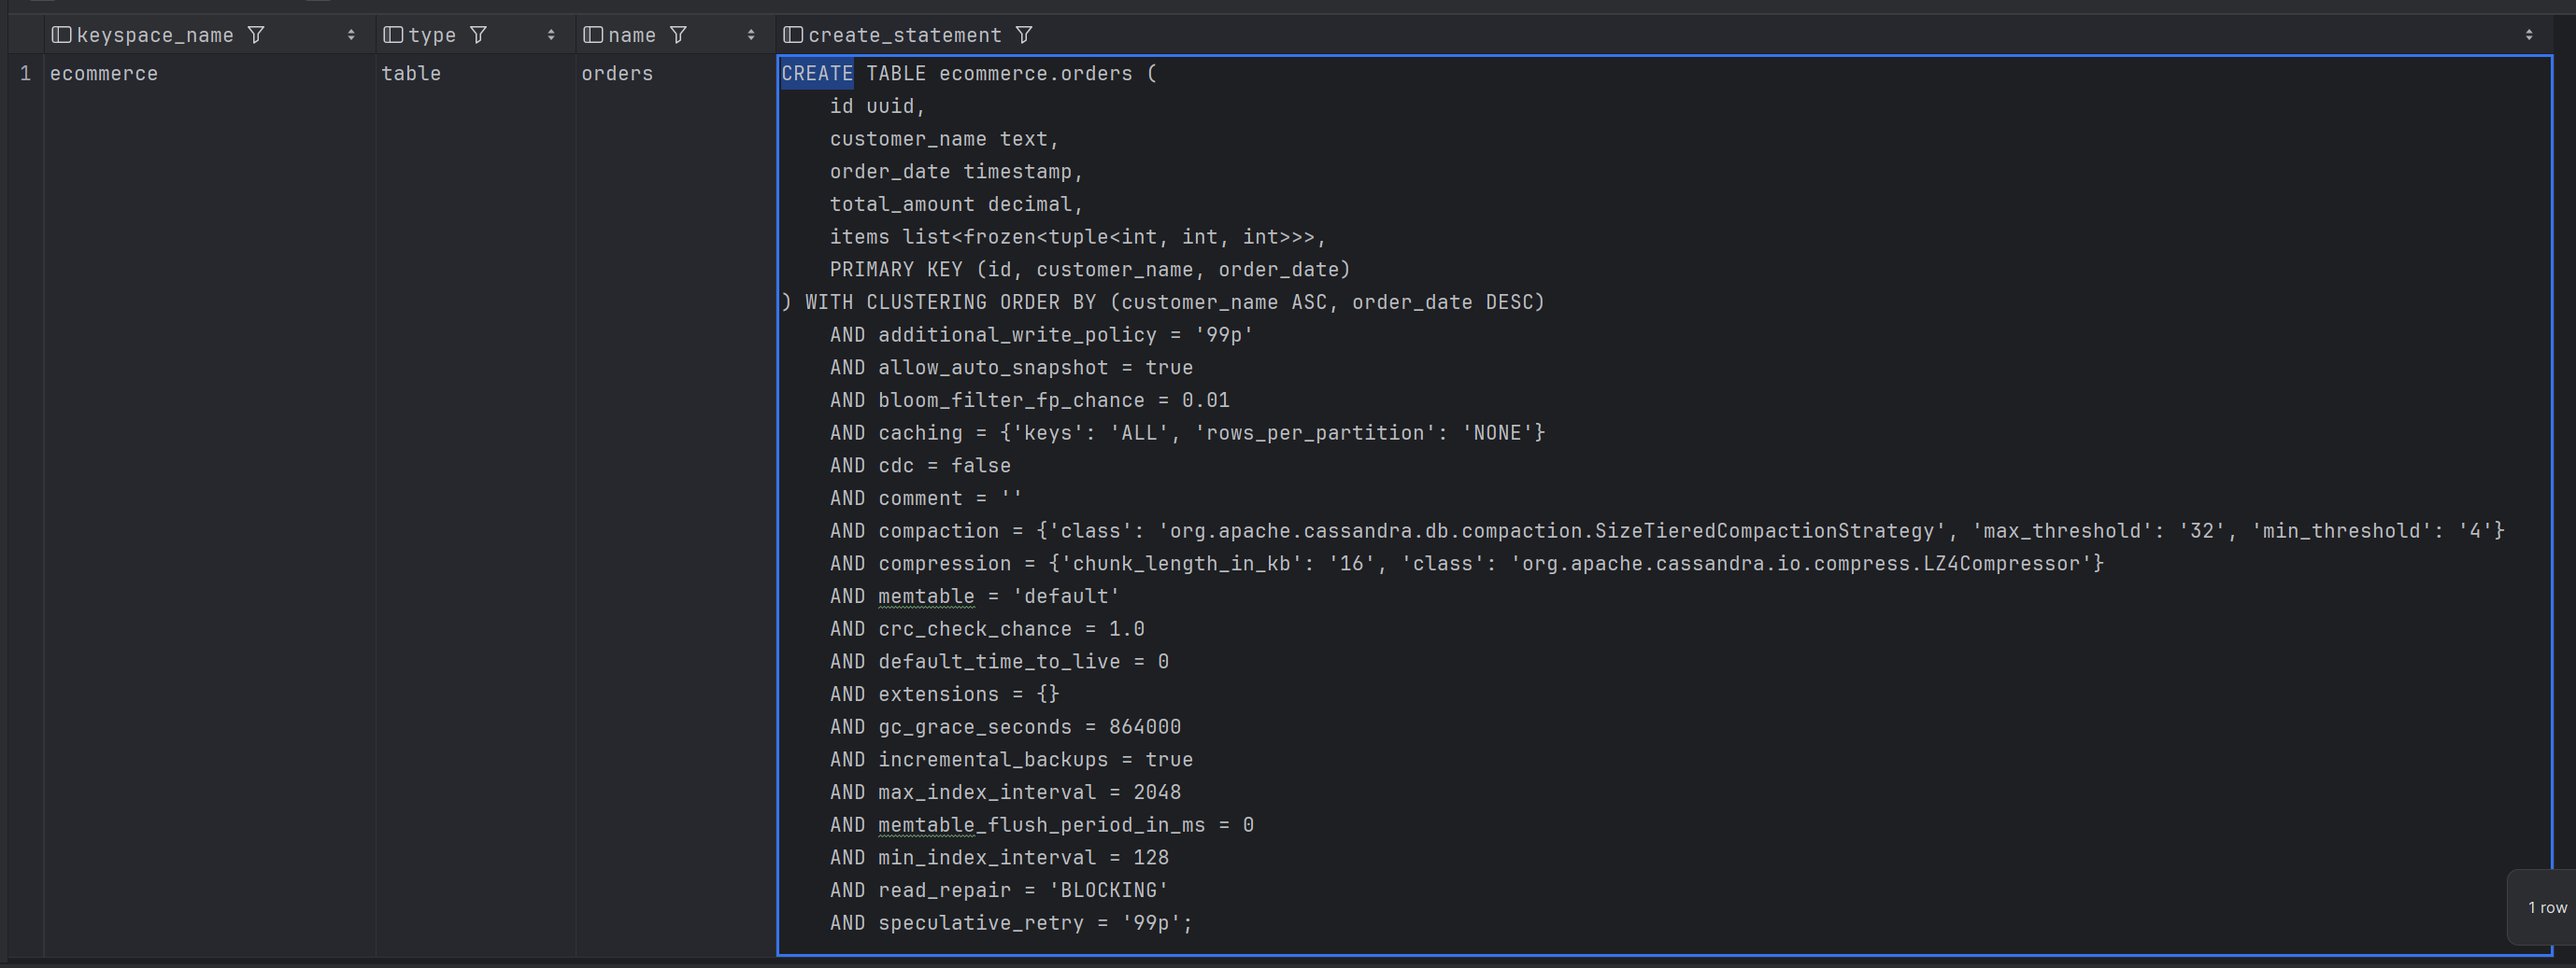
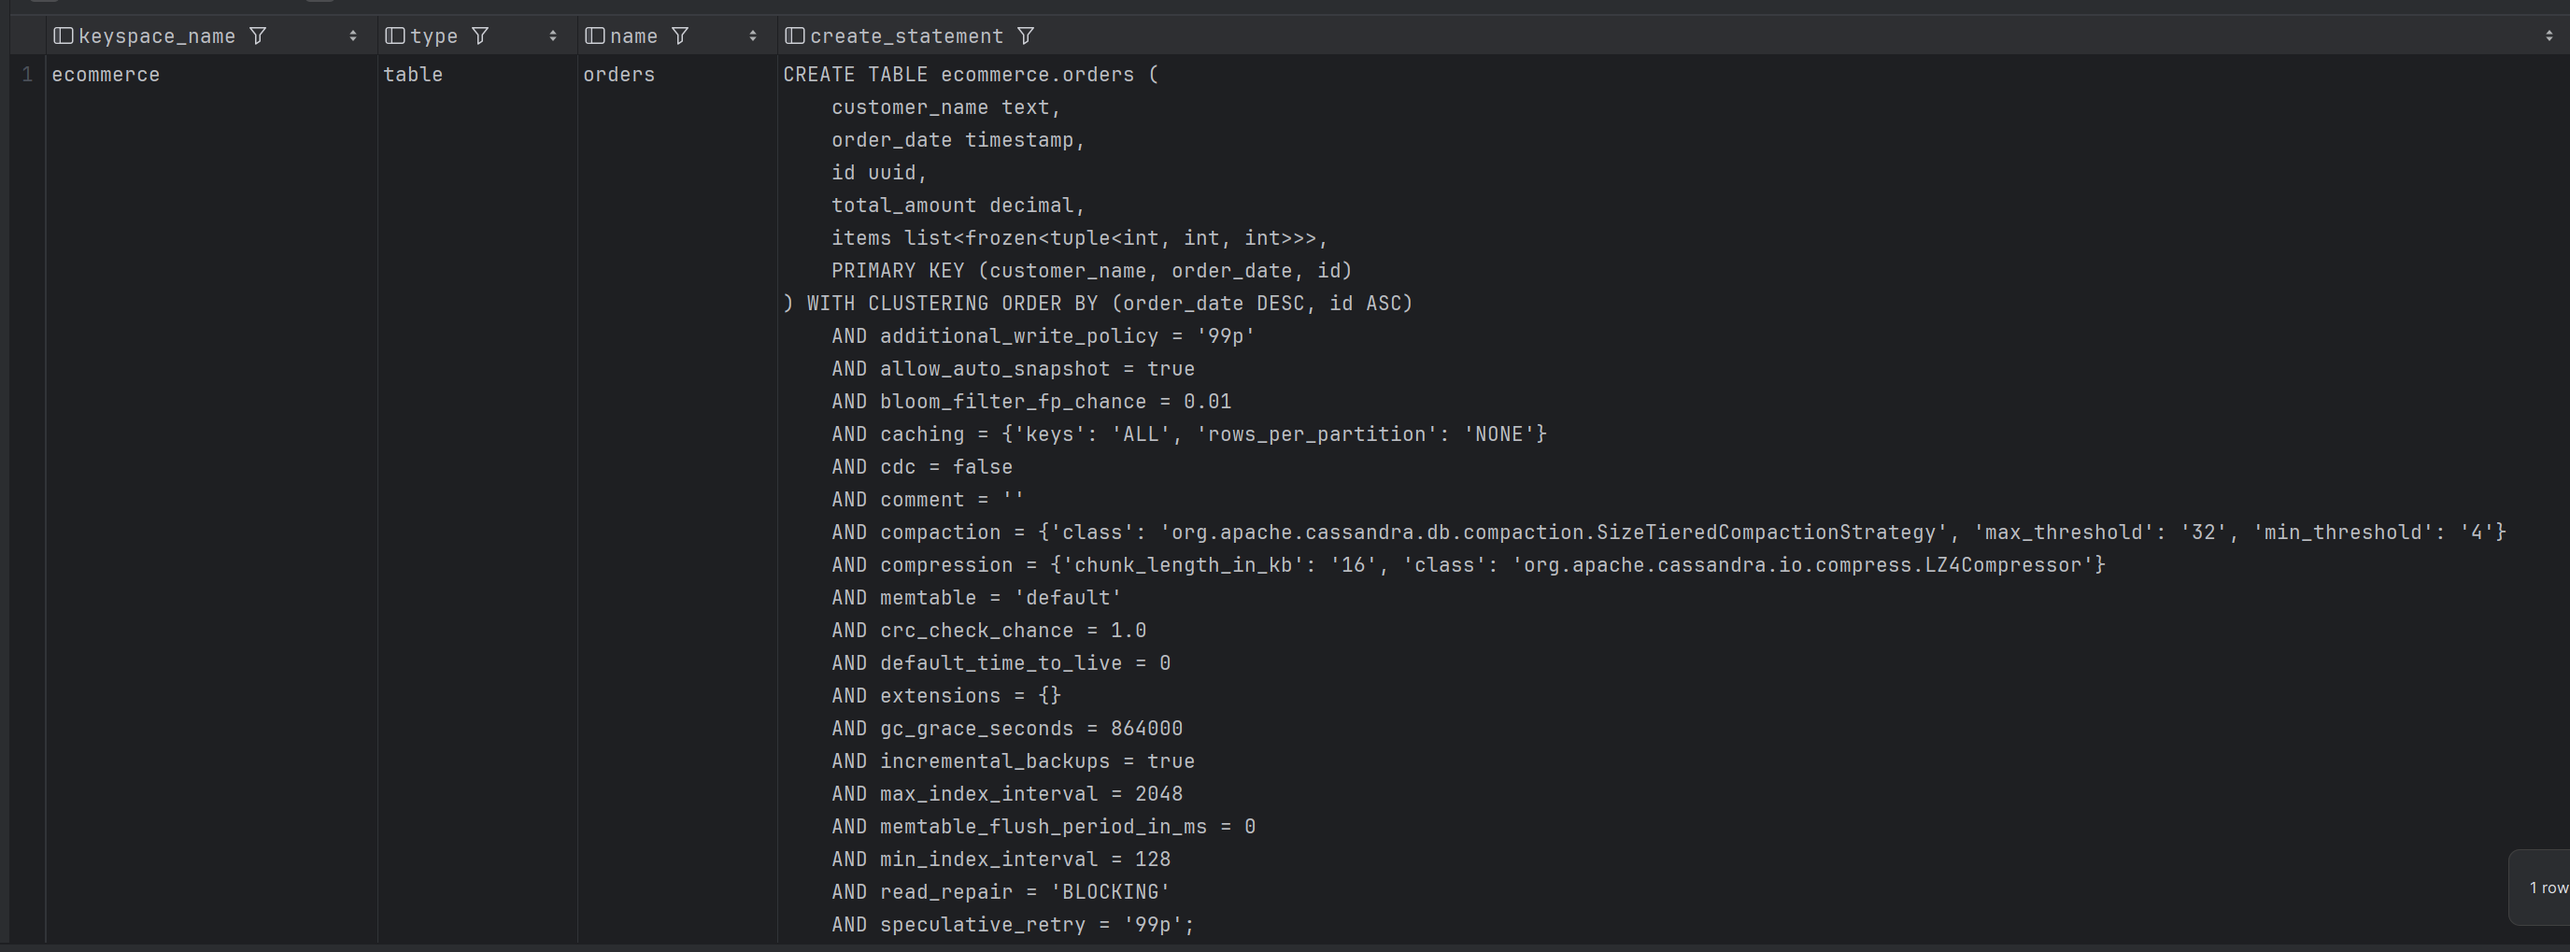
todo fix

diff --git a/README.md b/README.md
@@ -192,7 +192,6 @@ VALUES (uuid(), 'John Doe',
 DESCRIBE ecommerce.orders;
 ```
 ![img_6.png](img/img_6.png)
-## TODO describe
 ### Для замовника виведіть всі його замовлення відсортовані за часом коли вони були зроблені
 ```cassandraql
 SELECT * FROM ecommerce.orders WHERE customer_name='John Doe' ORDER BY order_date DESC;
